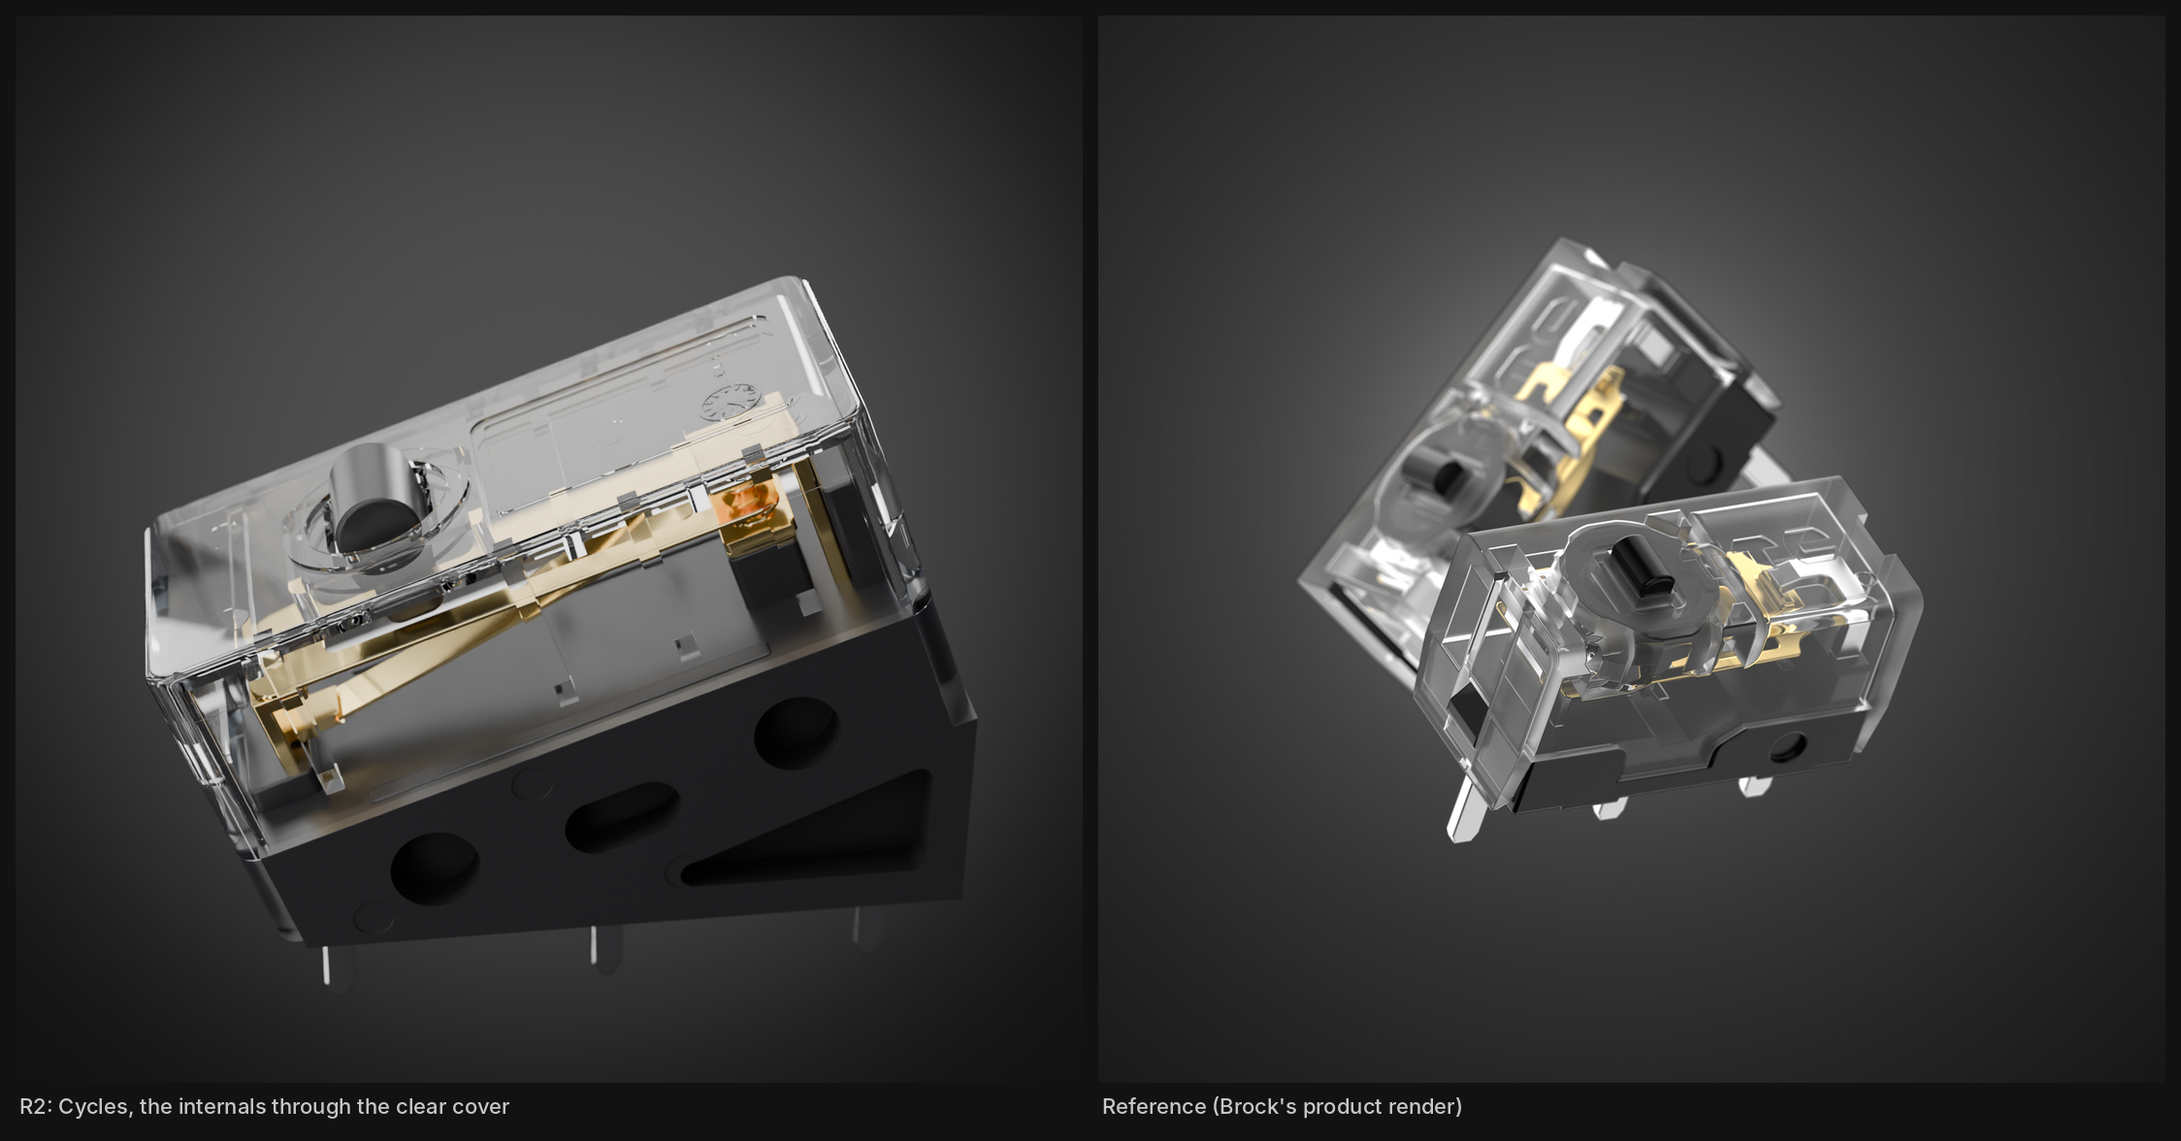
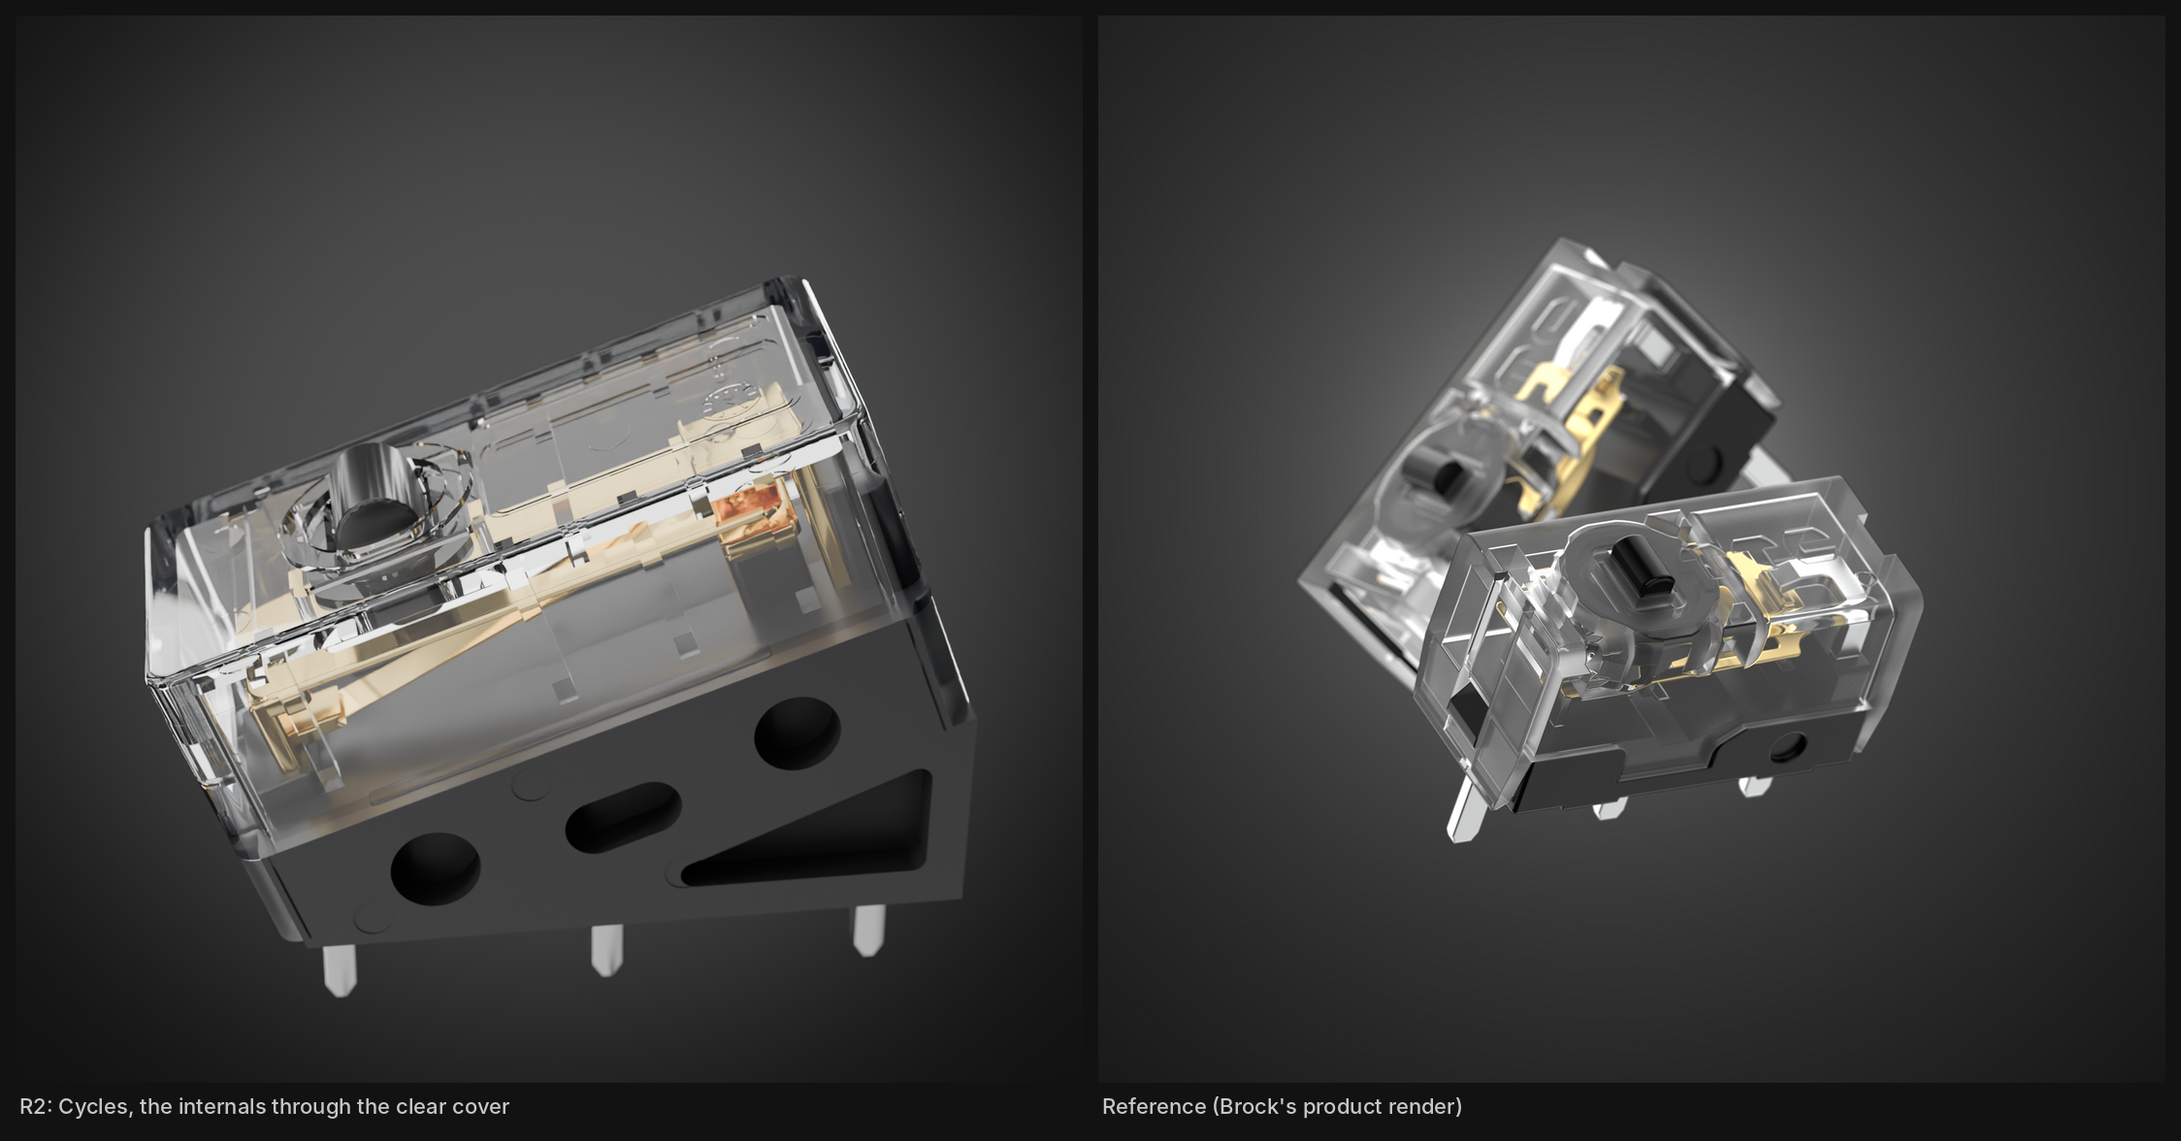
R2 round 3: real thicknesses, fillets on every edge, the dark parts lit; finals + fillet crop
Brock: some parts not thick enough, edges missing tiny fillets, dark bottoms not lit.
Cover walls 0.45 -> 0.6 mm and top 0.5 -> 0.7 (the plunger flange lowered 0.2 to sit under
it); collar ring 0.14 proud. Imported parts welded and inflated to real stock: terminal tabs
about +0.12 mm (to about 0.4), the spring 0.08 -> 0.15 mm, pins 0.4 -> 0.5 mm; the contacts'
clinched rivet backs added. Angle-limited fillets, 3-4 segments, hardened normals, on every
part: 0.03-0.05 sheet metal, 0.06-0.11 plastic. A bounce card below the front and a hot strip
low behind light the base, wedge and pins; studio fill lowered so the blacks stay black.
Gold cards seen only through the plastic keep the spring gold under the top highlights.
Round-2 finals moved to out/round2; out/macro_700.png is the fillet close crop.

Claude-Session: https://claude.ai/code/session_01Rus3VArUPm7VmMQLhM1LtG

Changed region(s): [[0.0623, 0.2449, 0.4671, 0.8878]]

diff --git a/render/scene.py b/render/scene.py
@@ -32,7 +32,7 @@ ap.add_argument('--exposure', type=float, default=0.0)
 ap.add_argument('--clay', action='store_true')
 ap.add_argument('--look', default='AgX - Punchy')
 ap.add_argument('--light', type=float, default=1.0)
-ap.add_argument('--env', type=float, default=0.25)
+ap.add_argument('--env', type=float, default=0.12)
 ap.add_argument('--border', default='')        # x0,x1,y0,y1 (0-1) for crops while iterating
 ap.add_argument('--pose', default='')          # JSON overrides of the shot's poses while iterating: {"A": [loc, rot], "B": .., "cam": {..}}
 args = ap.parse_args(sys.argv[sys.argv.index('--') + 1:] if '--' in sys.argv else sys.argv[1:])
@@ -193,7 +193,7 @@ def mat_pc(name, rough=0.012, absorb=0.035, tint=(0.93, 0.965, 1.0), shadow=0.86
 
 def materials(clay=False):
     M = {}
-    gold = (1.0, 0.77, 0.34)                         # plated gold (F0); its F82 edge tint kept golden, so grazing reflections stay gold
+    gold = (1.0, 0.75, 0.30)                         # plated gold, F0 a shade richer than (1.0, 0.77, 0.34): AgX lifts it toward cream
     M['gold'] = mat_basic('gold', clay, base=gold, metal=1.0, rough=0.12, tint=(1.0, 0.86, 0.56))
     M['goldHard'] = mat_basic('goldHard', clay, base=(1.0, 0.80, 0.40), metal=1.0, rough=0.1, tint=(1.0, 0.88, 0.6))
     M['tin'] = mat_basic('tin', clay, base=(0.87, 0.875, 0.88), metal=1.0, rough=0.17,
@@ -213,6 +213,50 @@ def materials(clay=False):
 
 
 # ============================================================================ the switch
+# Round 3 (Brock: "some parts don't feel thick enough, a lot of parts are lacking a very tiny filet"): the deck's internals are
+# web-weight (0.25-0.3 mm tabs, a 0.08 mm spring, 0.4 mm pins). Each imported part is welded, inflated along its normals to a
+# real stock thickness, then given an angle-limited fillet scaled to the part, 3+ segments, hardened normals.
+SHEET = {'comPost', 'comAnchor', 'comFulcrum', 'ncPost', 'ncArm', 'noTab', 'noRiser', 'noRun', 'noExit', 'run'}
+SPRING = {'blade', 'tongue'}
+CONTACT = {'contactNC', 'contactNO', 'movTop', 'movBot', 'anchorRivet'}
+PINS = {'pinCOM', 'pinNO', 'pinNC'}
+PLUNGER = {'plungerCap', 'plungerFlange', 'plungerNose'}
+BASE = {'baseBody', 'comPedestal', 'ncPedestal', 'noPedestal', 'guideRail'}
+D_TERM = 0.06          # terminal tabs: 0.25-0.3 -> about 0.4 mm (and 0.12 wider), the D2F class's brass stock
+D_SPRING = 0.035       # the spring: 0.08 -> 0.15 mm, a believable edge
+S_AXIS = Vector((0.0, -math.sin(TILT), math.cos(TILT)))     # the switch's own up axis, Blender frame
+
+
+def inflate(ob, d):
+    m = ob.modifiers.new('inflate', 'DISPLACE')
+    m.direction = 'NORMAL'
+    m.mid_level = 0.0
+    m.strength = d
+    return m
+
+
+def refine_part(o, base):
+    if base in PINS:
+        o.data.transform(Matrix.Diagonal((1.25, 1.0, 1.0, 1.0)))       # 0.4 -> 0.5 mm sheet (pins sit on x = 0)
+    if base == 'plungerFlange':
+        o.data.transform(Matrix.Translation(-0.2 * S_AXIS))             # under the thicker (0.7) top
+    tidy(o)
+    if base in SHEET:
+        inflate(o, D_TERM); bevel(o, 0.04, segs=3, angle=35)
+    elif base in SPRING:
+        inflate(o, D_SPRING); bevel(o, 0.03, segs=3, angle=35)
+    elif base in CONTACT:
+        inflate(o, 0.015); bevel(o, 0.03, segs=3, angle=35)
+    elif base in PINS:
+        bevel(o, 0.05, segs=3, angle=35)
+    elif base in PLUNGER:
+        bevel(o, 0.07, segs=3, angle=35)
+    elif base in BASE:
+        bevel(o, 0.06, segs=3, angle=35)
+    else:
+        bevel(o, 0.04, segs=3, angle=35)
+
+
 def build_switch(M):
     """Import the deck's GT01, swap in the refined cover and wedge, assign the physical finishes, bevel. Returns the collection."""
     col = bpy.data.collections.new('GT01')
@@ -247,17 +291,19 @@ def build_switch(M):
             new = M['lcp']
         o.data.materials.clear()
         o.data.materials.append(new)
-        # the imported parts carry three.js's crease-split normals and their own small bevels: shade them as given
-        for p in o.data.polygons:
-            p.use_smooth = True
+        refine_part(o, base)
     cover = mesh_from_npz('cover', os.path.join(BUILD, 'cover.npz'), 'S', [M['pc'], M['pcFrost']])
     col.objects.link(cover)
     tidy(cover)
-    bevel(cover, 0.06, segs=3, angle=35)
+    bevel(cover, 0.08, segs=4, angle=35)
     wedge = mesh_from_npz('wedge', os.path.join(BUILD, 'wedge.npz'), 'W', [M['lcp'], M['lcpPocket']])
     col.objects.link(wedge)
     tidy(wedge)
-    bevel(wedge, 0.09, segs=3, angle=35)
+    bevel(wedge, 0.11, segs=4, angle=35)
+    rv = mesh_from_npz('rivetBacks', os.path.join(BUILD, 'rivets.npz'), 'S', [M['goldHard']])
+    col.objects.link(rv)
+    tidy(rv)
+    bevel(rv, 0.02, segs=3, angle=35)
     return col
 
 
@@ -330,6 +376,7 @@ def world(sc, centre=(0.5, 0.56), c_in=0.15, c_out=0.028, env=0.2):
 
 
 def softbox(name, centre, target, size, strength, falloff=0.45, color=(1, 1, 1), camera=False, reflect_only=False):
+    # reflect_only: False, True/'outer' (seen only by paths that have not passed through the clear plastic), 'inner' (only by those that have)
     """An emissive card aimed at the target: radiance `strength` at its centre, easing to (1 - falloff) at its rim, so its
     reflections have the soft-edged gradient of a real diffused softbox."""
     bpy.ops.mesh.primitive_plane_add(size=1.0)
@@ -364,7 +411,8 @@ def softbox(name, centre, target, size, strength, falloff=0.45, color=(1, 1, 1),
         # a reflector card for the covers' outer faces only: dark to any path that has passed through the clear plastic, so the
         # gold spring under a top (parallel to it) keeps mirroring the studio, not this hot card (a standard art-direction cheat)
         lp = nt.nodes.new('ShaderNodeLightPath')
-        lt = nt.nodes.new('ShaderNodeMath'); lt.operation = 'LESS_THAN'; lt.inputs[1].default_value = 0.5
+        lt = nt.nodes.new('ShaderNodeMath'); lt.operation = 'GREATER_THAN' if reflect_only == 'inner' else 'LESS_THAN'
+        lt.inputs[1].default_value = 0.5
         nt.links.new(lp.outputs['Transmission Depth'], lt.inputs[0])
         mu = nt.nodes.new('ShaderNodeMath'); mu.operation = 'MULTIPLY'
         nt.links.new(mr.outputs['Result'], mu.inputs[0]); nt.links.new(lt.outputs[0], mu.inputs[1])
@@ -543,51 +591,69 @@ def rig(t, lights):
     for name, d, dist, size, strength, fall, *opt in lights:
         d = Vector(d).normalized()
         softbox(name, tuple(t + d * dist), tuple(t), size, strength * args.light * G.get(name, 1.0), falloff=fall,
-                reflect_only=bool(opt and opt[0]))
+                reflect_only=(opt[0] if opt else False))
 
 
 def lights_hero(t, rA, rB):
-    """rA, rB: where the two covers' tops mirror (from the camera). Each top gets a softbox whose edge lies on that direction,
-    so a broad, clean highlight runs over the back half of the top and fades out over the front half, the internals clear."""
+    """rA, rB: where the two covers' tops mirror (from the camera). Each top gets a hot card whose edge lies on that direction (a
+    broad highlight over part of the top), seen only by paths that have not entered the plastic; under each top a dimmer card on
+    the mirror direction itself, seen only by paths that have, so the gold spring under it (parallel to the top) mirrors it."""
     L = pose('lights', {})
     up = Vector((0, 0, 1))
     rig(t, [
-        # key: a very large, moderate softbox front-left and high (the gold mirrors it as rich gold, not white)
         ('key', L.get('key', (-0.5, -0.32, 0.8)), 120, (200, 150), 4.0, 0.4),
-        # the tops' highlights: hot boxes nudged so their lower edges sit on the mirror directions
-        ('topA', L.get('topA', tuple(nudge(rA, up, 10))), 120, (70, 26), 30.0, 0.8, True),
-        ('topB', L.get('topB', tuple(nudge(rB, up, 15))), 120, (70, 26), 24.0, 0.8, True),
-        # floor card: low, front right, the side walls' soft sheen
-        ('floor', L.get('floor', (0.62, -0.3, -0.72)), 120, (140, 90), 0.9, 0.6),
-        # strips: a thin white line on every chamfer, from each quarter
-        ('rimR', L.get('rimR', (0.85, 0.5, 0.3)), 110, (10, 150), 48.0, 0.1),
-        ('rimL', L.get('rimL', (-0.75, 0.62, 0.3)), 110, (10, 150), 40.0, 0.1),
-        ('sideR', L.get('sideR', (0.95, -0.25, 0.2)), 115, (10, 150), 26.0, 0.1),
-        ('sideL', L.get('sideL', (-0.92, -0.2, 0.3)), 115, (10, 150), 22.0, 0.1),
-        ('strip', L.get('strip', (0.08, 0.45, 0.9)), 125, (130, 9), 30.0, 0.1),
-        ('back', L.get('back', (0.15, 0.97, 0.15)), 120, (120, 12), 16.0, 0.15),
-        ('kick', L.get('kick', (-0.45, -0.7, -0.55)), 120, (10, 100), 14.0, 0.1),
+        ('topA', L.get('topA', tuple(nudge(rA, up, 12))), 120, (70, 26), 38.0, 0.8, 'outer'),
+        ('topB', L.get('topB', tuple(nudge(rB, up, 15))), 120, (70, 26), 30.0, 0.8, 'outer'),
+        ('goldA', L.get('goldA', tuple(rA)), 110, (110, 80), 1.1, 0.6, 'inner'),
+        ('goldB', L.get('goldB', tuple(rB)), 110, (110, 80), 1.0, 0.6, 'inner'),
+        # the dark parts at the bottom: a broad bounce card below and in front, and a hot strip low behind for the bottom edges
+        ('under', L.get('under', (0.15, -0.55, -0.82)), 110, (160, 110), 1.2, 0.5),
+        ('rimBot', L.get('rimBot', (-0.1, 0.8, -0.6)), 110, (150, 8), 44.0, 0.1),
+        ('rimR', L.get('rimR', (0.85, 0.5, 0.3)), 110, (10, 150), 62.0, 0.1),
+        ('rimL', L.get('rimL', (-0.75, 0.62, 0.3)), 110, (10, 150), 52.0, 0.1),
+        ('sideR', L.get('sideR', (0.95, -0.25, 0.2)), 115, (10, 150), 32.0, 0.1),
+        ('sideL', L.get('sideL', (-0.92, -0.2, 0.3)), 115, (10, 150), 28.0, 0.1),
+        ('strip', L.get('strip', (0.08, 0.45, 0.9)), 125, (130, 9), 38.0, 0.1),
+        ('back', L.get('back', (0.15, 0.97, 0.15)), 120, (120, 12), 20.0, 0.15),
+        ('kick', L.get('kick', (-0.45, -0.7, -0.55)), 120, (10, 100), 18.0, 0.1),
     ])
 
 
 def lights_inside(t):
     L = pose('lights', {})
     rig(t, [
-        # key: large, front and high: the top, the plunger, the front face
         ('key', L.get('key', (0.15, -0.55, 0.82)), 120, (180, 140), 3.6, 0.4),
-        # gold box: beyond the switch, high on the far side: the spring's top face mirrors it (seen through the near wall)
-        ('goldbox', L.get('goldbox', (-0.85, 0.3, 0.45)), 120, (70, 60), 5.0, 0.5),
-        # strips: thin white lines on the chamfers
-        ('rimL', L.get('rimL', (-0.6, 0.78, 0.2)), 110, (10, 150), 40.0, 0.1),
-        ('rimR', L.get('rimR', (-0.2, -0.95, 0.25)), 110, (10, 150), 22.0, 0.1),
-        ('sideF', L.get('sideF', (0.55, -0.8, 0.1)), 115, (10, 150), 18.0, 0.1),
-        ('strip', L.get('strip', (-0.3, 0.25, 0.92)), 125, (130, 9), 28.0, 0.1),
-        ('back', L.get('back', (-0.95, -0.1, 0.25)), 120, (12, 120), 16.0, 0.15),
-        # fill: broad, dim, from the camera's side
+        # gold box: beyond the switch, high on the far side; only paths through the plastic see it: the spring mirrors it, the
+        # cover's outer faces do not
+        ('goldbox', L.get('goldbox', (-0.85, 0.3, 0.45)), 120, (80, 70), 5.0, 0.5, 'inner'),
+        ('rimL', L.get('rimL', (-0.6, 0.78, 0.2)), 110, (10, 150), 52.0, 0.1),
+        ('rimR', L.get('rimR', (-0.2, -0.95, 0.25)), 110, (10, 150), 28.0, 0.1),
+        ('sideF', L.get('sideF', (0.55, -0.8, 0.1)), 115, (10, 150), 22.0, 0.1),
+        ('strip', L.get('strip', (-0.3, 0.25, 0.92)), 125, (130, 9), 36.0, 0.1),
+        ('back', L.get('back', (-0.95, -0.1, 0.25)), 120, (12, 120), 20.0, 0.15),
         ('fill', L.get('fill', (0.9, 0.1, 0.3)), 150, (120, 140), 0.9, 0.3),
-        # kicker: low front strip for the wedge's lower edges and the pins
-        ('kick', L.get('kick', (0.35, -0.8, -0.45)), 120, (10, 100), 12.0, 0.1),
+        ('under', L.get('under', (0.6, -0.35, -0.72)), 110, (160, 110), 1.2, 0.5),
+        ('rimBot', L.get('rimBot', (-0.75, 0.35, -0.55)), 110, (150, 8), 44.0, 0.1),
+        ('kick', L.get('kick', (0.35, -0.8, -0.45)), 120, (10, 100), 16.0, 0.1),
     ])
+
+
+def shot_macro(sc, col):
+    """A close crop on the front switch of the hero: the collar, the cover's top edge and corner, the wedge's cut-outs, to check
+    that every edge carries its fillet. Same placement and lights as the hero, the camera 22 mm away."""
+    A = pose('A', [(2.5, 0.0, 0.0), (-8, 0, -42)])
+    B = pose('B', [(-4.6, 7.2, 3.6), (24, 0, 38)])
+    a = place_instance(col, 'swA', *A, PIVOT)
+    place_instance(col, 'swB', *B, PIVOT)
+    sp = np.array([pose('macroS', [2.2, 4.4, 3.4])], dtype=np.float64)        # a point on the switch (frame S): the side, near the top
+    loc = three_to_blender(s_to_three(sp))[0]
+    bpy.context.view_layer.update()
+    tgt = a.matrix_world @ Vector(loc)
+    d = Vector((0.25, -1.0, 0.75)).normalized()
+    cam = camera(sc, tgt, d, pose('macroDist', 22.0), lens=100.0, fstop=args.fstop or 0.5, focus=tuple(tgt))
+    hero_t = Vector((-1.0, 3.6, 2.6))
+    lights_hero(hero_t, mirror(d, top_normal(A[1])), mirror(d, top_normal(B[1])))
+    return cam
 
 
 # ============================================================================ main
@@ -598,7 +664,7 @@ def main():
     col = build_switch(M)
     units_mm(sc)
     world(sc, env=args.env)
-    shot = {'hero': shot_hero, 'inside': shot_inside}[args.shot]
+    shot = {'hero': shot_hero, 'inside': shot_inside, 'macro': shot_macro}[args.shot]
     shot(sc, col)
     # the source collection renders only through its instances
     lc = bpy.context.view_layer.layer_collection.children[col.name]

diff --git a/render/refine_geo.py b/render/refine_geo.py
@@ -25,8 +25,8 @@ SEG = 64
 m3.set_circular_segments(SEG)
 
 L, W, H = 12.8, 5.8, 6.5
-Y_SH, WALL, TOP = 2.5, 0.45, 0.5
-CEIL = H - TOP                    # 6.0, the cavity's ceiling
+Y_SH, WALL, TOP = 2.5, 0.6, 0.7       # round 3: real moulded walls (0.6) and top (0.7); the deck's web model uses 0.45 / 0.5
+CEIL = H - TOP                    # 5.8, the cavity's ceiling (the plunger's flange is lowered 0.2 in scene.py to sit under it)
 RC, RT = 0.55, 0.18               # plan corner radius, top-edge round
 ZP = 2.0                          # plunger axis
 YS_FRONT = 0.56                   # the front end wall's foot (gt01.js: ysF + 0.17)
@@ -95,9 +95,9 @@ def build():
     # ---- the plunger hole, turned 90 deg: 2.3 across x 1.75 along, r 0.45, a 0.1 chamfer, and a 0.05 spot-face round it
     hole = rrect(2.3, 1.75, 0.45, 0, -ZP)
     body = body - chamfer_cutter(hole, H - 0.05, TOP + 0.8, 0.1)
-    # a round moulded collar round the hole: a 0.05 spot-face inside a ring 0.08 proud of the top (r 1.32 to 1.72)
+    # a round moulded collar round the hole: a 0.05 spot-face inside a ring 0.14 proud of the top (r 1.32 to 1.78)
     body = body - slab(CrossSection.circle(1.32, SEG).translate([0, -ZP]), H - 0.05, H + 0.3)
-    body = body + slab(CrossSection.circle(1.72, SEG).translate([0, -ZP]) - CrossSection.circle(1.32, SEG).translate([0, -ZP]), H - 0.05, H + 0.08)
+    body = body + slab(CrossSection.circle(1.78, SEG).translate([0, -ZP]) - CrossSection.circle(1.32, SEG).translate([0, -ZP]), H - 0.05, H + 0.14)
     # ---- the label recess, zs -5.5 to 0.12 (shortened for the collar), 0.06 deep, with a bead inside its edge (no marking)
     rz0, rz1 = -5.5, 0.12
     rec = slab(rrect(3.5, rz1 - rz0, 0.35, 0, -(rz0 + rz1) / 2), H - 0.06, H + 0.3)
@@ -204,7 +204,31 @@ def export(body, frosted):
     lo, hi = vs.min(0), vs.max(0)
     print('bounds S:', np.round(lo, 3), np.round(hi, 3))
 
+def build_rivets(d_term=0.06):
+    """The contacts' clinched rivet backs, which the deck's model leaves out (switch frame S): a low dome on top of the NC arm over
+    its contact, under the NO tab under its contact, and under the COM anchor tab under the spring's anchor rivet. d_term is how far
+    scene.py inflates the terminal tabs (their faces move out by about that much), so the heads sit on the thickened tabs."""
+    Y_BLADE, T_BLADE, GAP = 4.456, 0.08, 0.30
+    Y_NCARM = Y_BLADE + T_BLADE + 0.12 + 0.14
+    Y_NOTAB = Y_BLADE - GAP - 0.12 - 0.14
+    Y_ANCHOR, ZC, Z_TIP = 4.45, 5.08, -4.0
+    def dome(r, h, up=True):
+        m = Manifold.sphere(r, 48).scale([1, 1, h / r]).trim_by_plane([0, 0, 1], 0.0)
+        return m if up else m.mirror([0, 0, 1])
+    heads = [dome(0.3, 0.12).translate([0, -Z_TIP, Y_NCARM + 0.25 + d_term - 0.02]),
+             dome(0.3, 0.12, False).translate([0, -Z_TIP, Y_NOTAB - 0.25 - d_term + 0.02]),
+             dome(0.24, 0.09, False).translate([0, -(ZC - 0.42), Y_ANCHOR - 0.25 - d_term + 0.02])]
+    allh = Manifold.batch_boolean(heads, m3.OpType.Add)
+    mesh = allh.to_mesh()
+    v = np.asarray(mesh.vert_properties, dtype=np.float64)[:, :3]
+    t = np.asarray(mesh.tri_verts, dtype=np.int64)
+    vs = np.stack([v[:, 0], v[:, 2], -v[:, 1]], axis=1)
+    np.savez(os.path.join(OUT, 'rivets.npz'), V=vs.astype(np.float32), T=t.astype(np.int32), F=np.zeros(len(t), dtype=np.int8))
+    print(f'rivet backs: {len(t)} tris')
+
+
 if __name__ == '__main__':
     import json
+    build_rivets()
     export(*build())
     build_wedge(json.load(open(os.path.join(OUT, 'gt01.json')))['spec'])

diff --git a/render/composite.py b/render/composite.py
@@ -68,7 +68,7 @@ if __name__ == '__main__':
         pair(os.path.join(OUT, 'inside_1400.png'), args.ref,
              ['R2: Cycles, the internals through the clear cover', 'Reference (Brock\'s product render)'],
              os.path.join(OUT, 'compare_inside.png'), S)
-    rounds = [('d2_hero.png', 'r1: first composition'), ('round1/hero_1400_r1.png', 'r1 final (main: one switch edge-on)'),
-              ('e1_hero.png', 'r2: pair recomposed'), ('e3_hero.png', 'r2: top highlight too wide'),
-              ('e5_hero.png', 'r2: highlights aimed per top'), ('hero_1400.png', 'r2 final')]
+    rounds = [('round1/hero_1400_r1.png', 'round 1 final'), ('round2/hero_1400_r2.png', 'round 2 final'),
+              ('hero_1400.png', 'round 3 final'), ('round2/inside_1400_r2.png', 'inside, round 2'),
+              ('inside_1400.png', 'inside, round 3'), ('macro_700.png', 'round 3 close crop: fillets')]
     sheet([os.path.join(OUT, p) for p, _ in rounds], [t for _, t in rounds], os.path.join(OUT, 'iterations.png'))
